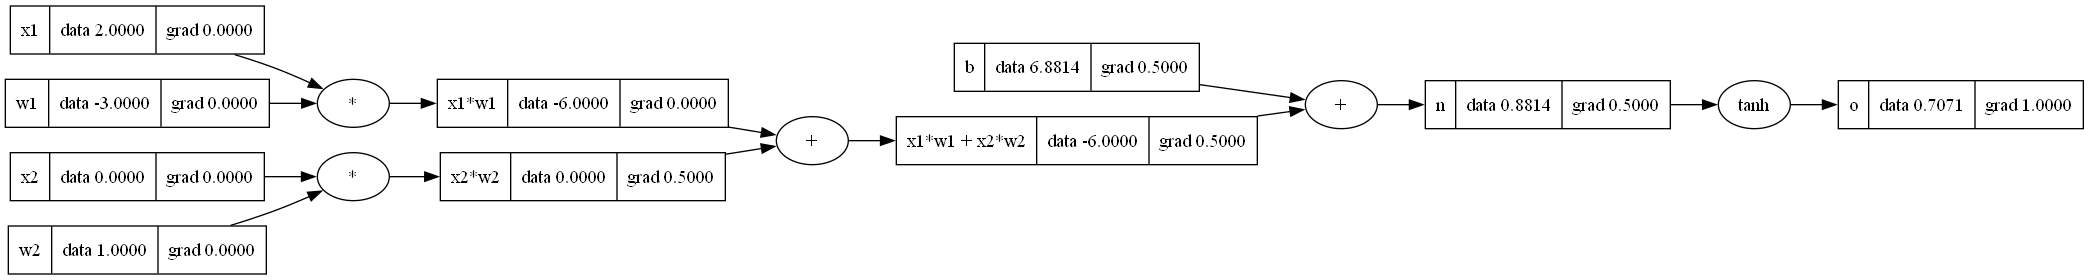
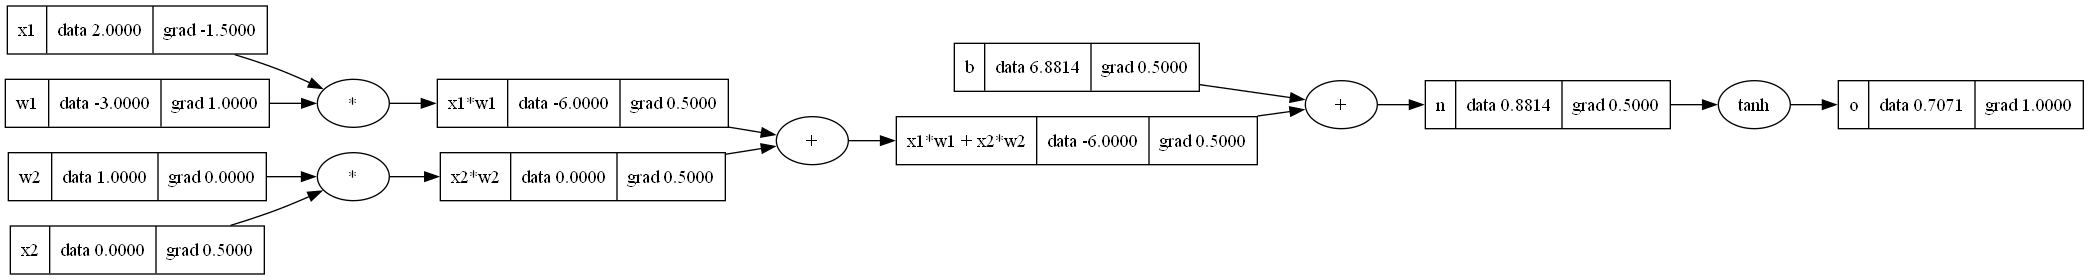
automated gradient calaculation in backporpogation

Changed region(s): [[0.0, 0.5429, 0.1245, 0.7143], [0.0, 0.8286, 0.1245, 0.9714], [0.0, 0.0286, 0.1245, 0.1714]]

diff --git a/neural netowrk/backpropogation.py b/neural netowrk/backpropogation.py
@@ -17,6 +17,7 @@ class Value:
     def __init__(self, data, _children=(), _op='', label =''):
         self.data = data
         self.grad=0.0
+        self._backward =  lambda: None
         self._prev = set(_children)
         self._op = _op
         self.label=label
@@ -25,14 +26,51 @@ class Value:
         return f"value(data={self.data})"  # f is fomratted print where you can print varibale isnide a given text  statement, also its an automatic print statemnet
 
     def __add__(self, other):
-        return Value(self.data + other.data, (self, other),
+        out= Value(self.data + other.data, (self, other),
                      '+')  # add function show how to add the class objects and their elements individually
-
+        def _backward():
+            self.grad+=1.0*out.grad #here we are defining the gradient to be calculated automatiacally via the code rather than puttung invia hands
+            other.grad+=1.0*out.grad# so for a node say t, t.grad=do/dn * dn/dt_n * dt_n/dt_n1 * ....... *dt_1/dt = t1.grad( everything except the last term or one can say a kind of global derivative) * dt_1/dt
+                                   #= t1.grad * 1 ( as t is in t1 via the '+' operand), here t1.grad=out.grad
+        out._backward=_backward
+        return out
     def __mult__(self, other):
-        return Value(self.data * other.data, (self, other), '*')
+       out = Value(self.data * other.data, (self, other), '*')
+
+       def _backward():
+           self.grad += other.data* out.grad  # here we are defining the gradient to be calculated automatiacally via the code rather than puttung invia hands
+           other.grad += self.data * out.grad  # so for a node say t, t.grad=do/dn * dn/dt_n * dt_n/dt_n1 * ....... *dt_1/dt = t1.grad( everything except the last term or one can say a kind of global derivative) * dt_1/dt
+           # = t1.grad * the other term (for e.g. if the dependency of t1 on t is as t1= a * t, then dt_1/dt=a), here t1.grad=out.grad
+
+       out._backward = _backward
+       return out
 
     def tanh(self):
-        return Value ((math.exp(2*self.data)-1)/(math.exp(2*self.data)+1),(self,),'tanh')
+        x=self.data
+        t=(math.exp(2*x)-1)/(math.exp(2*x)+1)
+        out =  Value (t,(self,),'tanh')
+
+        def _backward():
+            self.grad += (1-t**2)* out.grad  # here we are defining the gradient to be calculated automatiacally via the code rather than puttung invia hands
+            # so for a node say t, t.grad=do/dn * dn/dt_n * dt_n/dt_n1 * ....... *dt_1/dt = t1.grad( everything except the last term or one can say a kind of global derivative) * dt_1/dt
+            # = t1.grad * (1-data**2) (dt_1/dt=1-t.data**2), here t1.grad=out.grad
+        out._backward = _backward
+        return out
+
+    def backward(self):
+        topo = []
+        visited = set()
+
+        def build_topo(v): # this makes a list of the nodes going from last nodes towards earleuir ones in topo
+            if v not in visited:
+                visited.add(v)
+                for child in v._prev:
+                    build_topo(child)
+                topo.append(v)
+        build_topo(self)
+        self.grad=1.0
+        for node in reversed(topo): # then in this we go through the topo in opposite direction that is from 1st node to last
+            node._backward()# to fill in the gradients going backwards to the first node
 
 
 a = Value(2.0,label='a')
@@ -50,10 +88,10 @@ def trace(root):
     def build(v): # build is called with d via trace in draw_dot
         if v not in nodes:
             nodes.add(v)
-            print("nodes",nodes)
+            #print("nodes",nodes)
             for child in v._prev:
                 edges.add((child, v))
-                print("edges",edges)
+             #   print("edges",edges)
                 build(child)
 
     build(root)
@@ -143,9 +181,24 @@ x1w1x2w2 = x1w1 + x2w2; x1w1x2w2.label = 'x1*w1 + x2*w2'
 n = x1w1x2w2 + b; n.label = 'n'# the collective input of the previous tow neurons to the current neuron/node
 #draw_dot(n) # this shows the node contribution of the previous nodes/ neurons to the current one withput activation fcntion uncomment to plot
 o=n.tanh(); o.label='o'
-o.grad=1.0# again doing the derivative things
-n.grad= 0.5#do/dn=1-tanh(n)**2=1-o**2=1-0.7071**2
-b.grad=0.5#do/db=do/dn * dn/db=do/dn * 1
-x1w1x2w2.grad=0.5#do/d(x1w1x2w2)=do/dn * dn/d(x1w1x2w2)= do/dn * 1
-x2w2.grad=0.5#do/d(x2w2)=do/dn * dn/d(x1w1+x2w2) * d(x1w1x2w2)/d(x2w2)=do/dn * 1 *1
-draw_dot(o)#this shows the node contribution of the previous nodes/ neurons to the current one with activation fcntion uncomment to plot
+#o.grad=1.0# again doing the derivative things
+#n.grad= 0.5#do/dn=1-tanh(n)**2=1-o**2=1-0.7071**2
+#b.grad=0.5#do/db=do/dn * dn/db=do/dn * 1
+#x1w1x2w2.grad=0.5#do/d(x1w1x2w2)=do/dn * dn/d(x1w1x2w2)= do/dn * 1
+#x2w2.grad=0.5#do/d(x2w2)=do/dn * dn/d(x1w1+x2w2) * d(x1w1x2w2)/d(x2w2)=do/dn * 1 *1
+#x1w1.grad=0.5#do/d(x1w1)=do/dn * dn/d(x1w1+x2w2) * d(x1w1x2w2)/d(x1w1)=do/dn * 1 *1
+#w1.grad= 1.0#do/d(w1)=do/dn * dn/d(x1w1+x2w2) * d(x1w1+x2w2)/d(x1w1) *d(x1w1)/d(w1)=do/dn *1 *1 *x1
+#w2.grad=0.0 #do/d(w1)=do/dn * dn/d(x1w1+x2w2) * d(x1w1+x2w2)/d(x2w2) *d(x2w2)/d(w2)=do/dn *1 *1 *x2
+#x1.grad= -1.5#do/d(w1)=do/dn * dn/d(x1w1+x2w2) * d(x1w1+x2w2)/d(x1w1) *d(x1w1)/d(x1)=do/dn *1 *1 *w1
+#x2.grad=0.5 #do/d(w1)=do/dn * dn/d(x1w1+x2w2) * d(x1w1+x2w2)/d(x2w2) *d(x2w2)/d(x2)=do/dn *1 *1 *w2
+#draw_dot(o)#this shows the node contribution of the previous nodes/ neurons to the current one with activation fcntion uncomment to plot
+# now we dont have to insert the derivative manually so we udodated the class and now we can  do it via funciotn even though the first .grad still needs to be initlaized
+#o._backward()
+#n._backward()
+#b._backward()# nothing will happen as b is not connected backward to any other node
+#x1w1x2w2._backward()
+#x1w1._backward()
+#x2w2._backward()
+# now instead of calling backward again and again we can build toplogical sort done in value class, to do it automatically
+o.backward()
+draw_dot(o)
